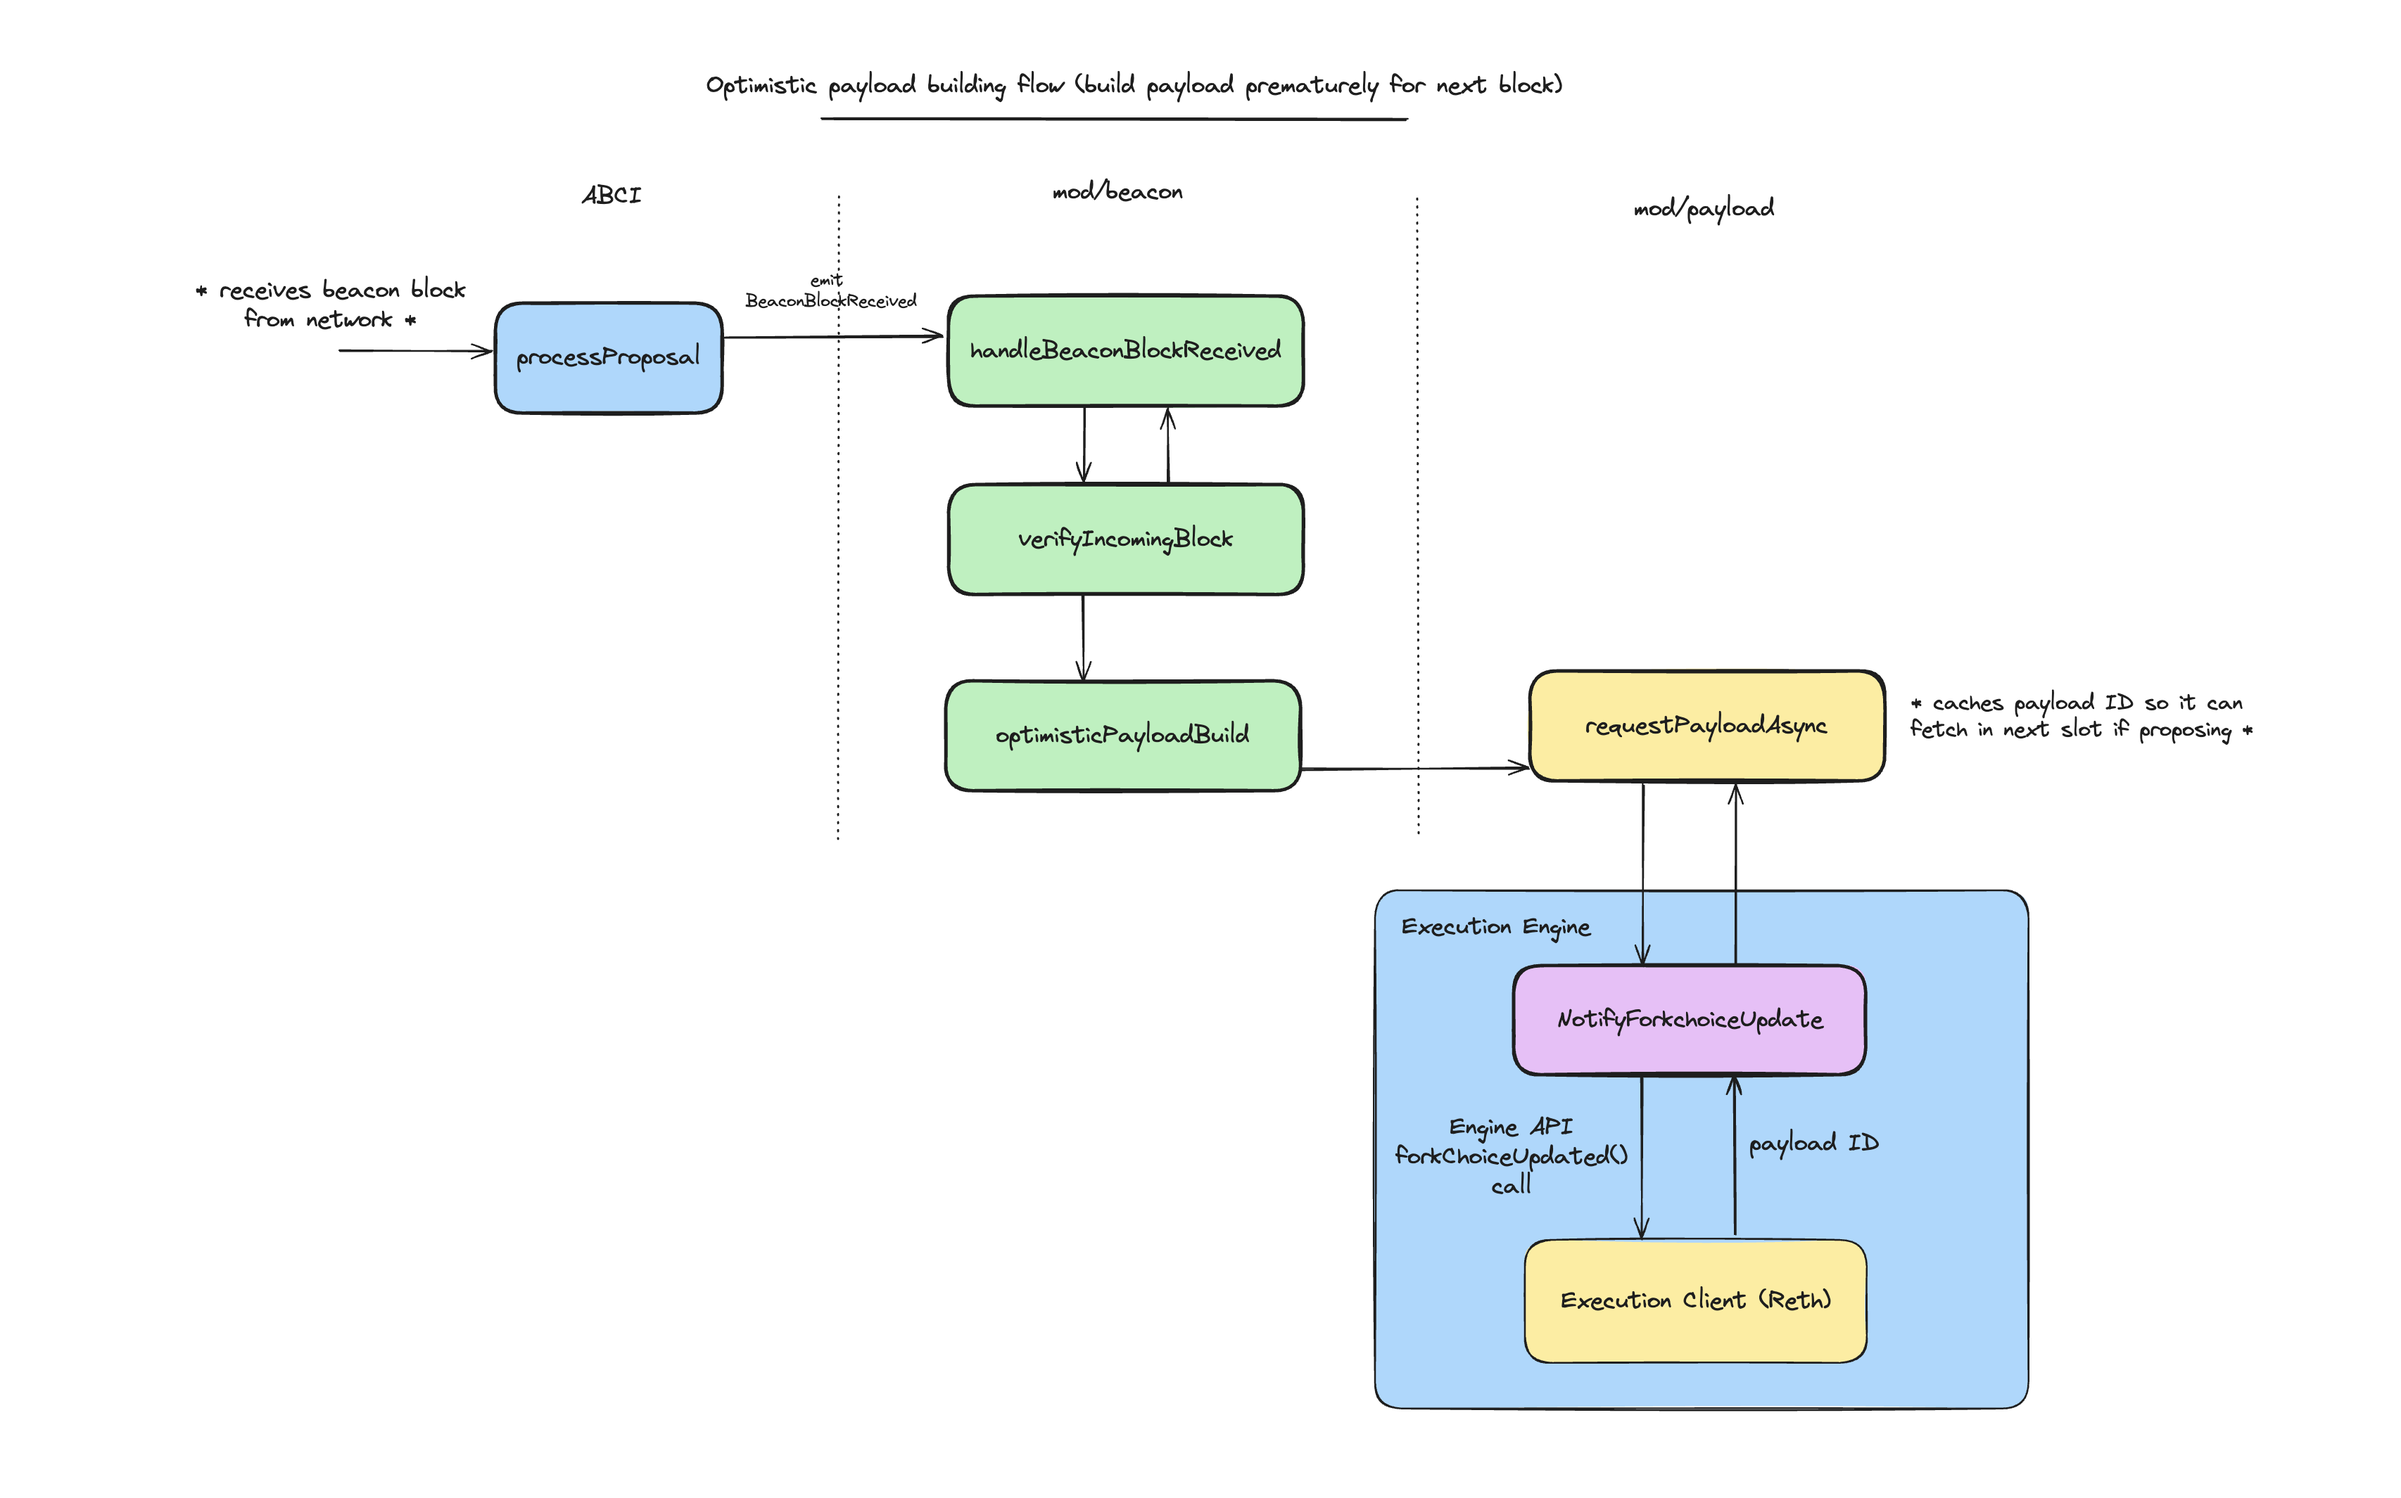
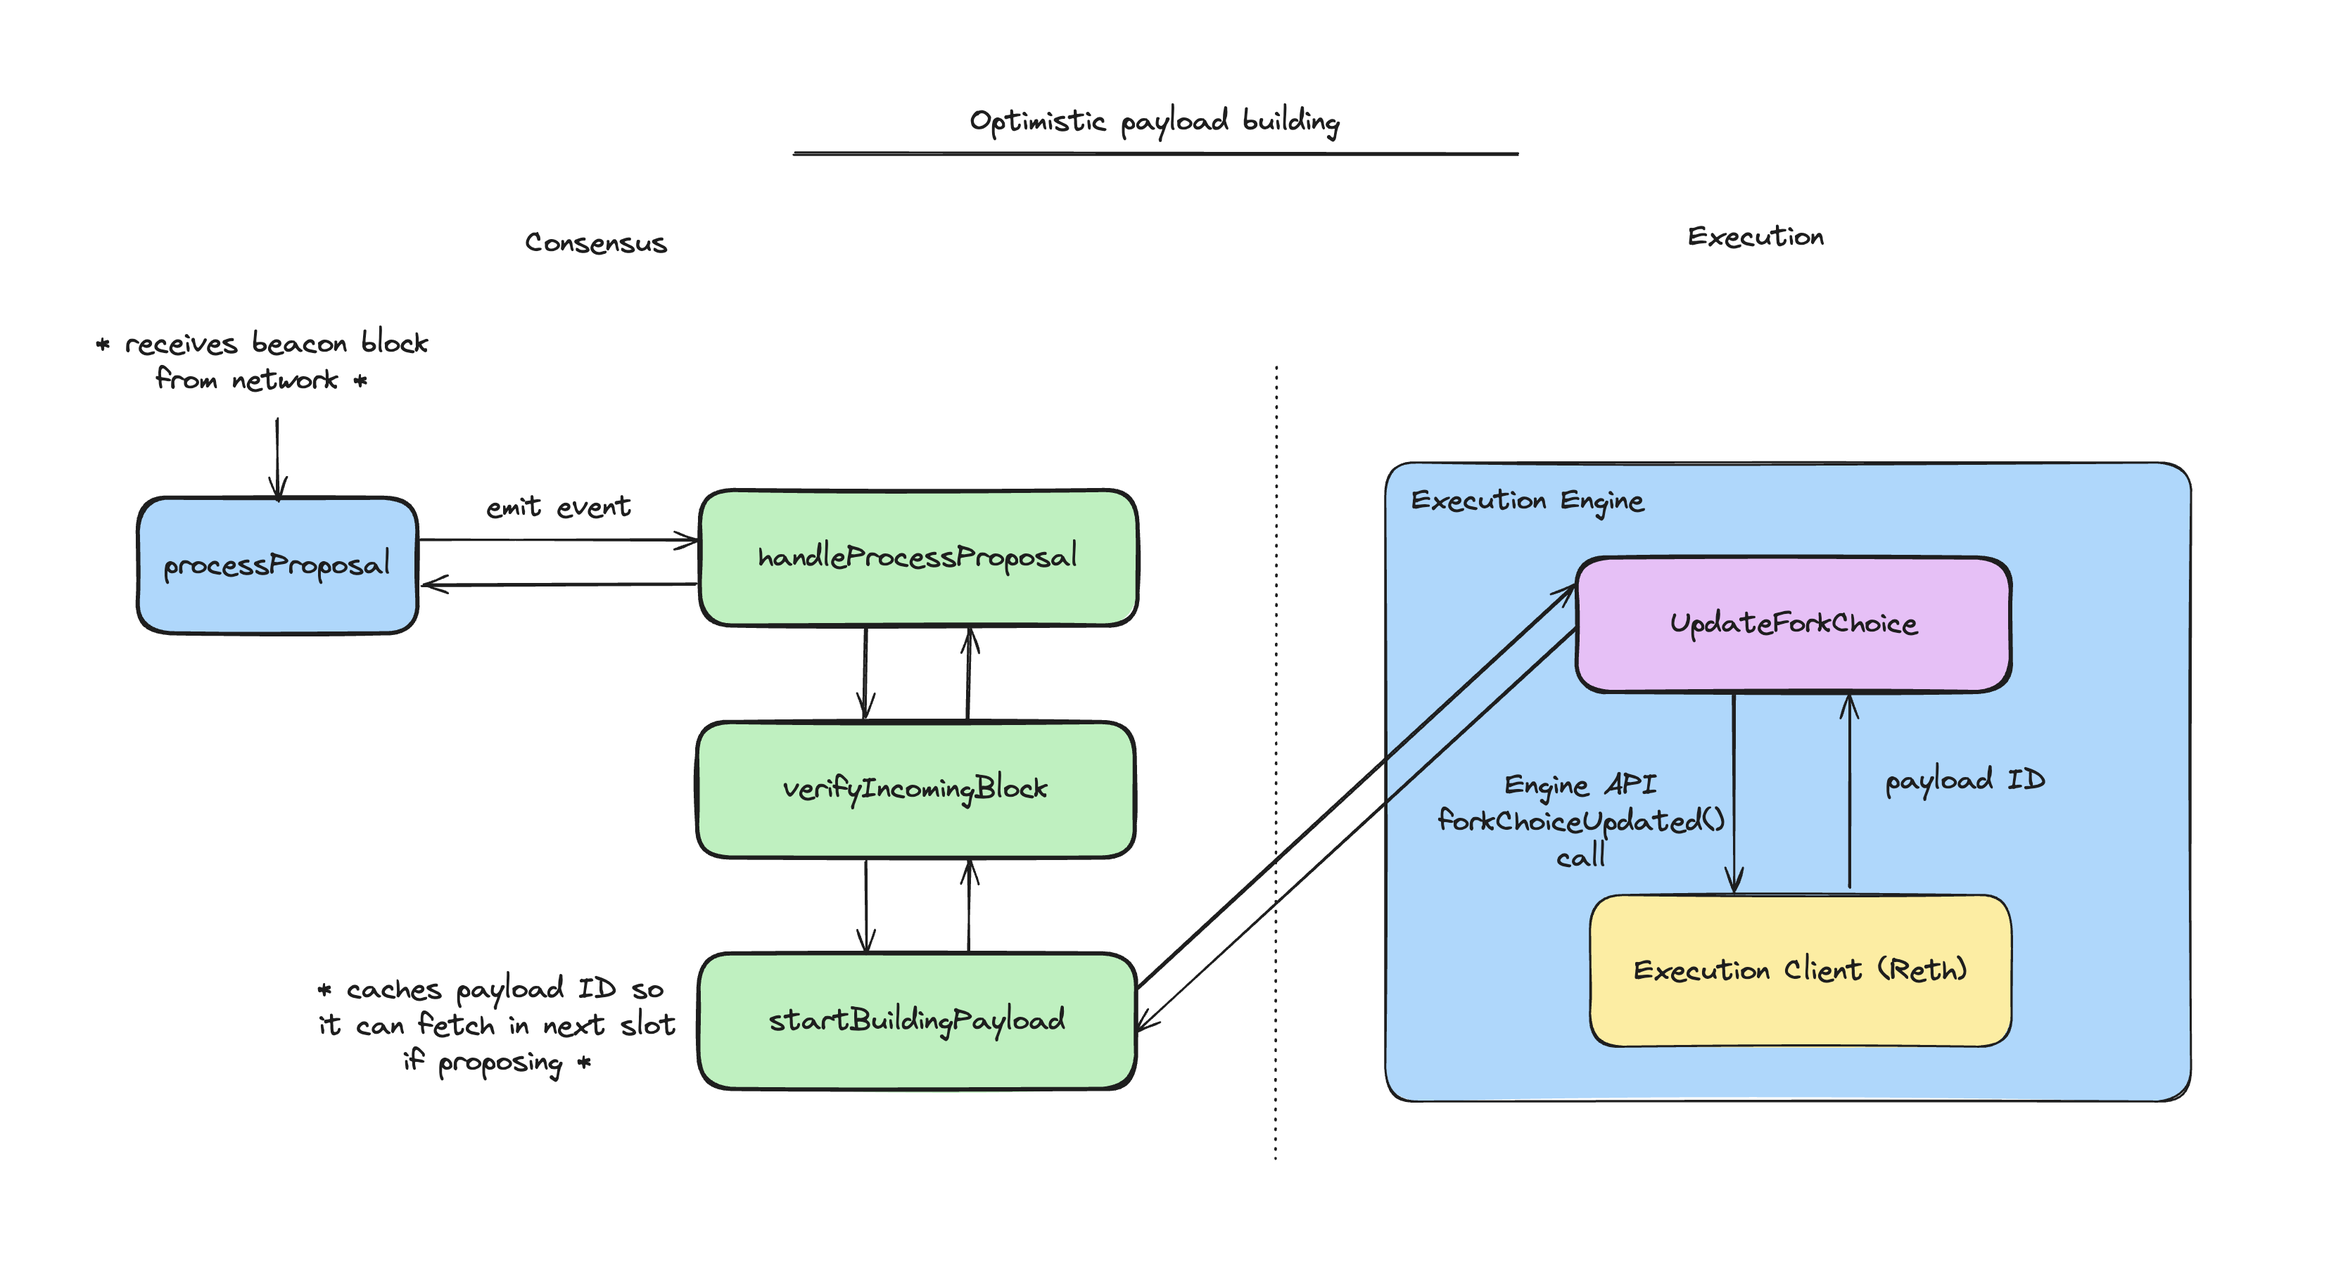
optimistic payload building

diff --git a/book/src/chain/optimistic-payload.md b/book/src/chain/optimistic-payload.md
@@ -1,1 +1,5 @@
 # Optimistic Payload Building
+
+To improve performance, Infinity optimistically builds execution payloads. This means that when processing a block proposal at height `N`, a validator prematurely requests the execution engine to start building an execution payload for the next block. This improves performance in the case that this validator ends up being the proposer for the next block.
+
+![optimistic payload](../assets/optimistic-payload.png)
